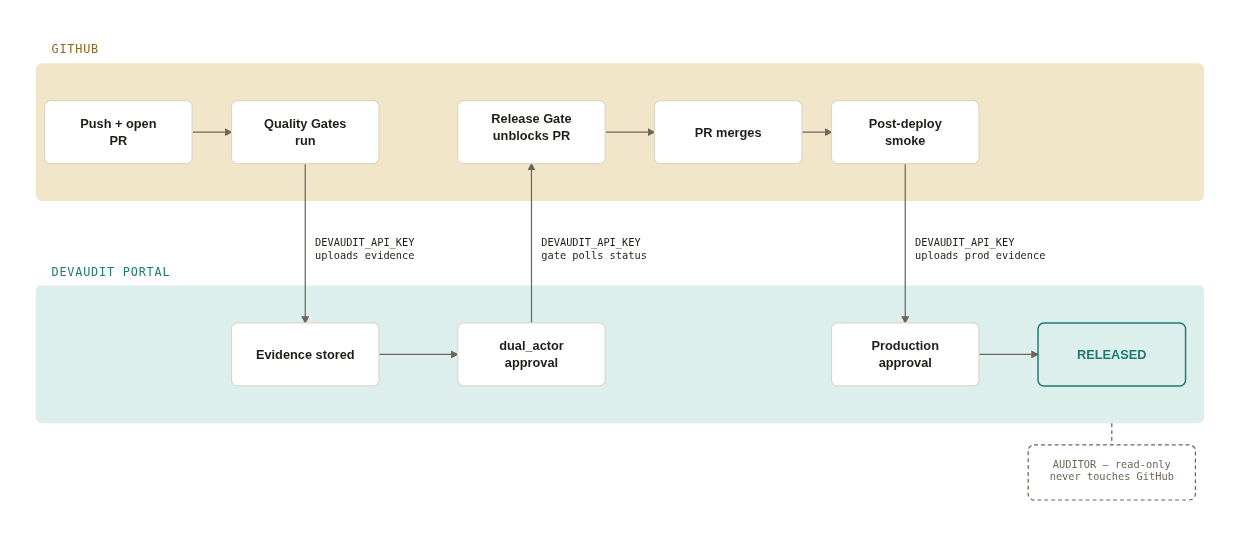
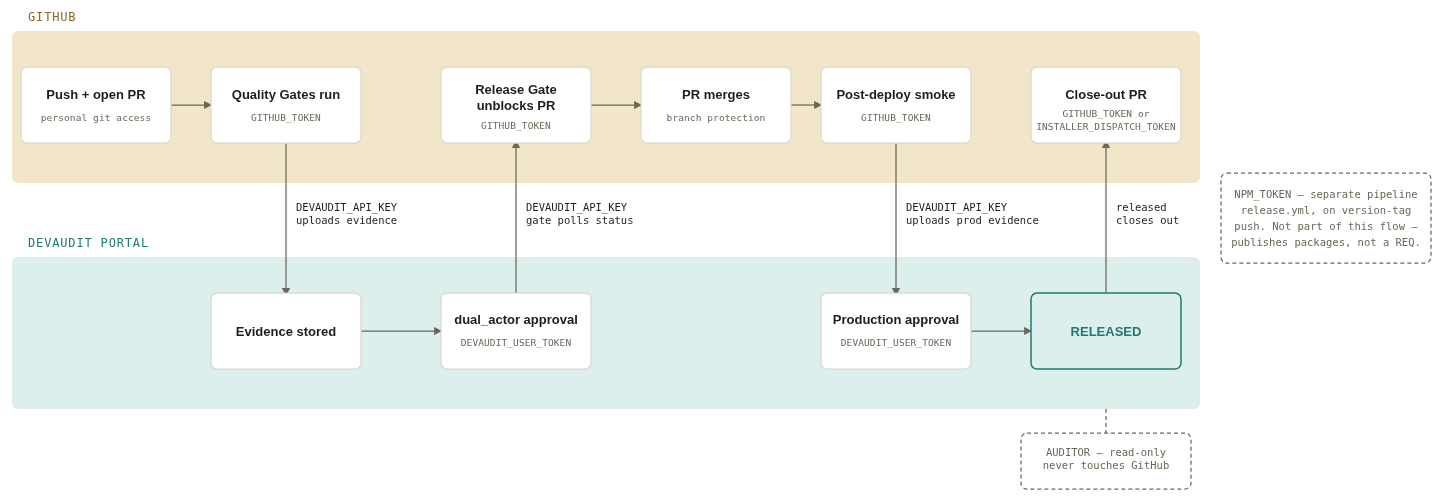
docs(articles): show every credential in the release-flow diagram, not just DEVAUDIT_API_KEY
The diagram only labeled the 3 DEVAUDIT_API_KEY crossings, leaving 5
of 6 credentials from the table below it entirely absent from the
picture. Redrew it to tag every node with the credential that
authenticates it (personal git access, GITHUB_TOKEN x3, branch
protection, DEVAUDIT_USER_TOKEN x2), added the close-out step so
INSTALLER_DISPATCH_TOKEN appears where it actually matters (the 4th
cross-boundary hop, when the portal flipping to `released` triggers
GitHub's close-out automation), and added NPM_TOKEN as a deliberately
disconnected side note since it belongs to a separate pipeline
(release.yml on a version-tag push, not any single requirement).

Also answers "where do tokens come from and where do they end up":
split the credentials table's "System"/"Held by" columns into
"Obtained from" and "Placed as" so provenance and storage location are
both explicit per credential, not just scope and consumer.

diff --git a/docs/articles/permissions-and-tokens-reference.md b/docs/articles/permissions-and-tokens-reference.md
@@ -33,26 +33,26 @@ Six kinds of identity touch a release. Two never leave GitHub, two never leave t
 
 ## 2. One release, two permission systems
 
-The mechanism worth seeing: a release zig-zags between GitHub's world and the portal's world several times before it ships. Each crossing is authenticated by a different call to the same credential — never by a different one, and never by a human logging into the other system directly.
+The mechanism worth seeing: a release zig-zags between GitHub's world and the portal's world several times before it ships, and a different credential is doing the work at nearly every step. Every node below carries the credential that authenticates it.
 
-![A tracked requirement moving from first commit to released, crossing between GitHub and the DevAudit portal three times, each crossing authenticated by DEVAUDIT_API_KEY; an auditor reads the portal lane independently and never touches GitHub](images/permissions-release-flow-diagram.png)
+![A tracked requirement moving from first commit through released to close-out, crossing between GitHub and the DevAudit portal four times via DEVAUDIT_API_KEY, with personal git access, GITHUB_TOKEN, branch protection, DEVAUDIT_USER_TOKEN, and INSTALLER_DISPATCH_TOKEN each labeled at the step that uses them; an auditor reads the portal lane independently with a scoped login and never touches GitHub; NPM_TOKEN is shown separately as an unrelated pipeline triggered by version tags](images/permissions-release-flow-diagram.png)
 
-A tracked requirement moving from first commit to `released`. The three cross-boundary hops are where a credential from one system authenticates a call into the other — every one of them is `DEVAUDIT_API_KEY`. The auditor, bottom right, only ever touches the portal lane.
+A tracked requirement moving from first commit to `released` and on to close-out. The four cross-boundary hops (down to evidence storage, up to the release gate, down to production evidence, up to close-out) are where a credential from one system authenticates a call into the other — three of them are `DEVAUDIT_API_KEY`; the fourth (the portal flipping to `released` triggering GitHub's close-out automation) is what actually invokes `GITHUB_TOKEN` or `INSTALLER_DISPATCH_TOKEN`. Every other node names the credential doing the work at that step, so nothing in the flow is unlabeled. The auditor, bottom, only ever touches the portal lane. `NPM_TOKEN`, top right, is deliberately drawn disconnected — it belongs to a different pipeline entirely (`release.yml` on a version-tag push), not to any single requirement's promotion.
 
 ---
 
 ## 3. Every credential, what it's worth if leaked
 
-Ordered roughly by blast radius — what someone could do with it, not how often it's used.
+Ordered roughly by blast radius — what someone could do with it, not how often it's used. **Obtained from** is where the credential is minted; **placed as** is where it actually lives once it's in use.
 
-| Credential | System | Held by | Scope / blast radius | Where it's used |
+| Credential | Obtained from | Placed as | Scope / blast radius | Consumed by |
 | --- | --- | --- | --- | --- |
-| **personal git access** — SSH key or `gh auth` token | GitHub | A human, directly | Whatever that GitHub account's repo role allows — for a write collaborator, every repo they can see. | Every `git push`, every `gh pr` command, in or out of CI |
-| **`GITHUB_TOKEN`** — auto-issued per workflow run | GitHub | The workflow run itself — identity `github-actions[bot]` | This one repo only. Exactly what that workflow's own `permissions:` block grants (often just `contents: read`). Dies when the job ends. | Nearly every workflow — CI, linting, the release pipeline |
-| **`INSTALLER_DISPATCH_TOKEN`** — optional repo secret | GitHub | A real human's PAT (classic `repo` scope, or fine-grained Contents+PRs read/write), stored as a secret | Whatever that PAT is scoped to — this repo, if set up correctly. Exists specifically so a bot-opened PR isn't authored by the bot. | `hotfix-backmerge.yml`; consumer projects' `close-out-release.yml` |
-| **`NPM_TOKEN`** — repo secret | GitHub | npm automation identity | Publish rights on the 5 `@metasession.co/*` packages. Nothing else. | `release.yml` only, on tag push |
-| **`DEVAUDIT_USER_TOKEN`** — `mctok_…`, a PAT | Portal | A human, directly | Carries the operator's full portal identity. Project creation, API-key issuance, and every audit-log entry it touches attribute to this person by name. | `devaudit install`/`join`, release approvals, portal login |
-| **`DEVAUDIT_API_KEY`** — issued by a `DEVAUDIT_USER_TOKEN` at onboarding | Portal | CI, not a human | **One project.** A compromised key can upload junk evidence or poll status for that project — it cannot touch any other project on the portal. | Every generated CI workflow that uploads evidence or checks release status |
+| **personal git access** | A human adds an SSH key to their GitHub account, or runs `gh auth login` | Local `~/.ssh/` key or the OS/`gh` credential store — never a repo secret | Whatever that GitHub account's repo role allows — for a write collaborator, every repo they can see. | Every `git push`, every `gh pr` command, in or out of CI |
+| **`GITHUB_TOKEN`** | Minted automatically by GitHub Actions — no human ever requests it | Injected as an env var into the running job only; never written anywhere | This one repo only. Exactly what that workflow's own `permissions:` block grants (often just `contents: read`). Dies when the job ends. | Nearly every workflow — CI, linting, the release pipeline |
+| **`INSTALLER_DISPATCH_TOKEN`** | A human generates a classic `repo`-scope (or fine-grained Contents+PRs read/write) PAT at github.com/settings/tokens | Pasted into repo **Settings → Secrets and variables → Actions** as `INSTALLER_DISPATCH_TOKEN` | Whatever that PAT is scoped to — this repo, if set up correctly. Exists specifically so a bot-opened PR isn't authored by the bot. | `hotfix-backmerge.yml`; consumer projects' `close-out-release.yml` |
+| **`NPM_TOKEN`** | A human generates an access token on npmjs.com (or `npm token create`) | Pasted into repo **Settings → Secrets and variables → Actions** as `NPM_TOKEN` | Publish rights on the 5 `@metasession.co/*` packages. Nothing else. | `release.yml` only, on tag push |
+| **`DEVAUDIT_USER_TOKEN`** — `mctok_…`, a PAT | A human issues it at devaudit.ai/settings/tokens | Exported locally (`export DEVAUDIT_USER_TOKEN=…`) for CLI use, **and** written as a repo secret by `devaudit install` itself | Carries the operator's full portal identity. Project creation, API-key issuance, and every audit-log entry it touches attribute to this person by name. | `devaudit install`/`join`, release approvals, portal login |
+| **`DEVAUDIT_API_KEY`** | Minted automatically by the portal during `devaudit install`, authenticated via the operator's `DEVAUDIT_USER_TOKEN` — not requested directly by a human | Written as a repo secret by `devaudit install` itself, as `DEVAUDIT_API_KEY` | **One project.** A compromised key can upload junk evidence or poll status for that project — it cannot touch any other project on the portal. | Every generated CI workflow that uploads evidence or checks release status |
 
 ---
 
